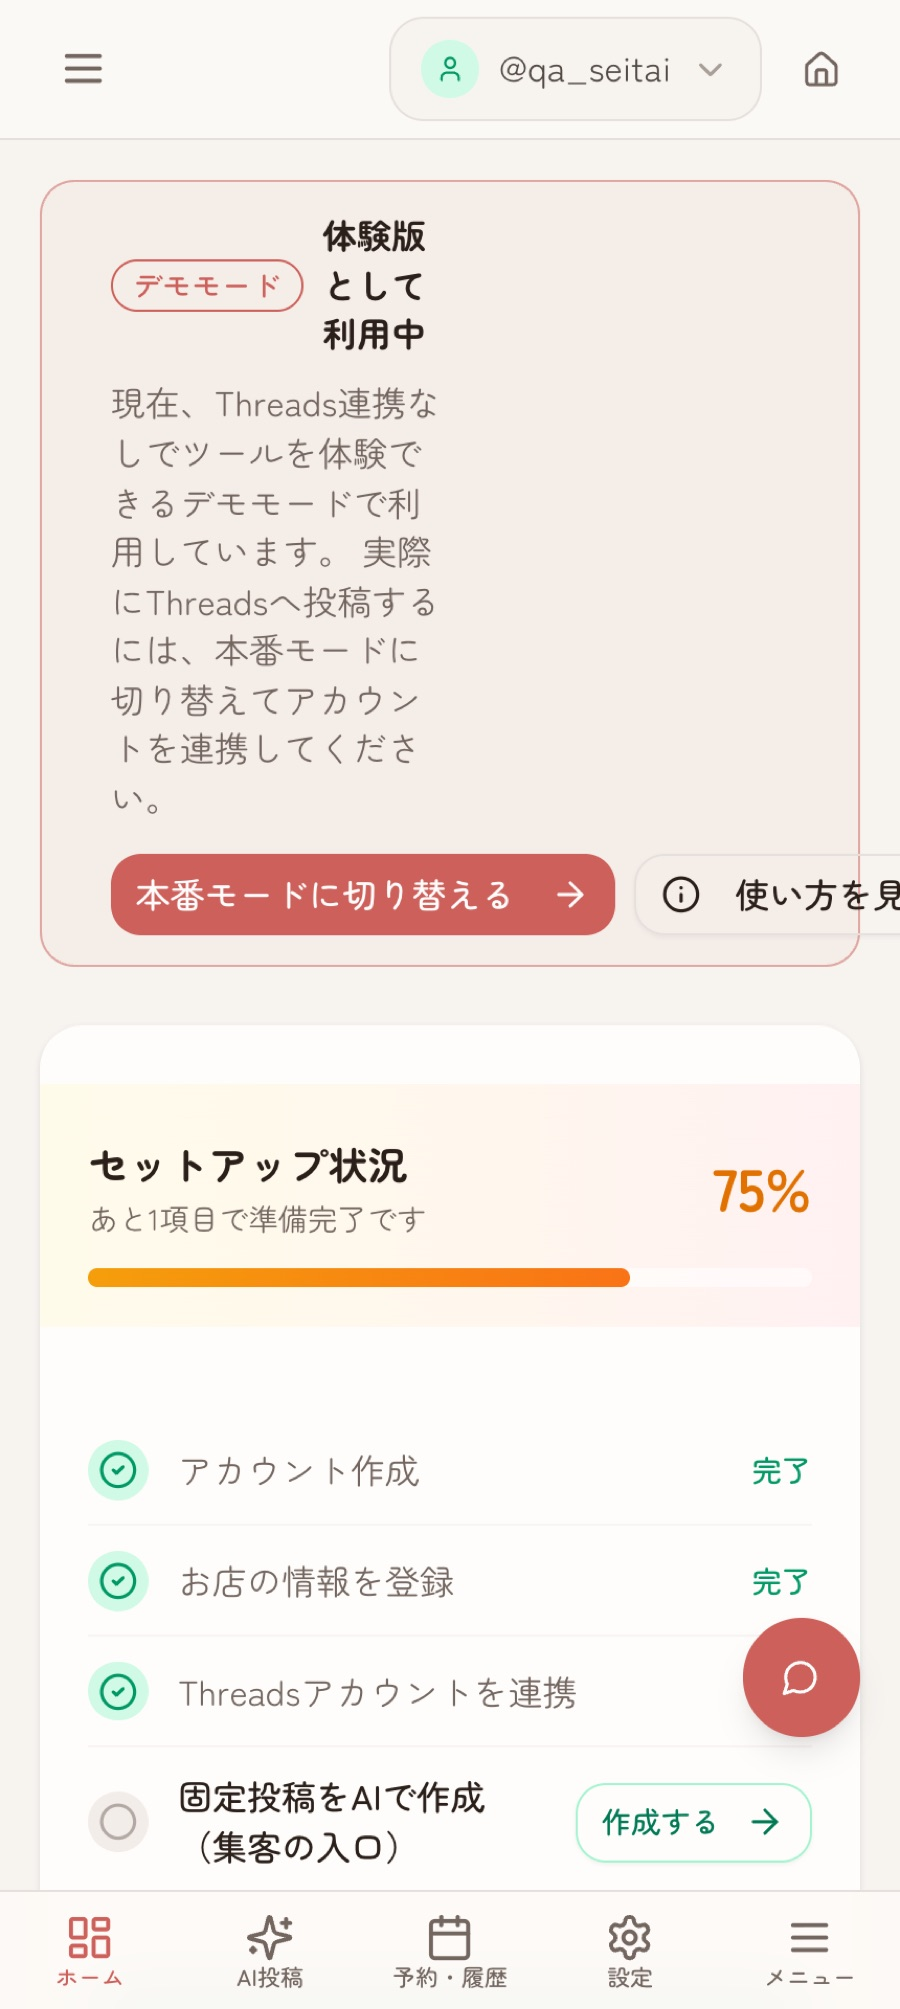
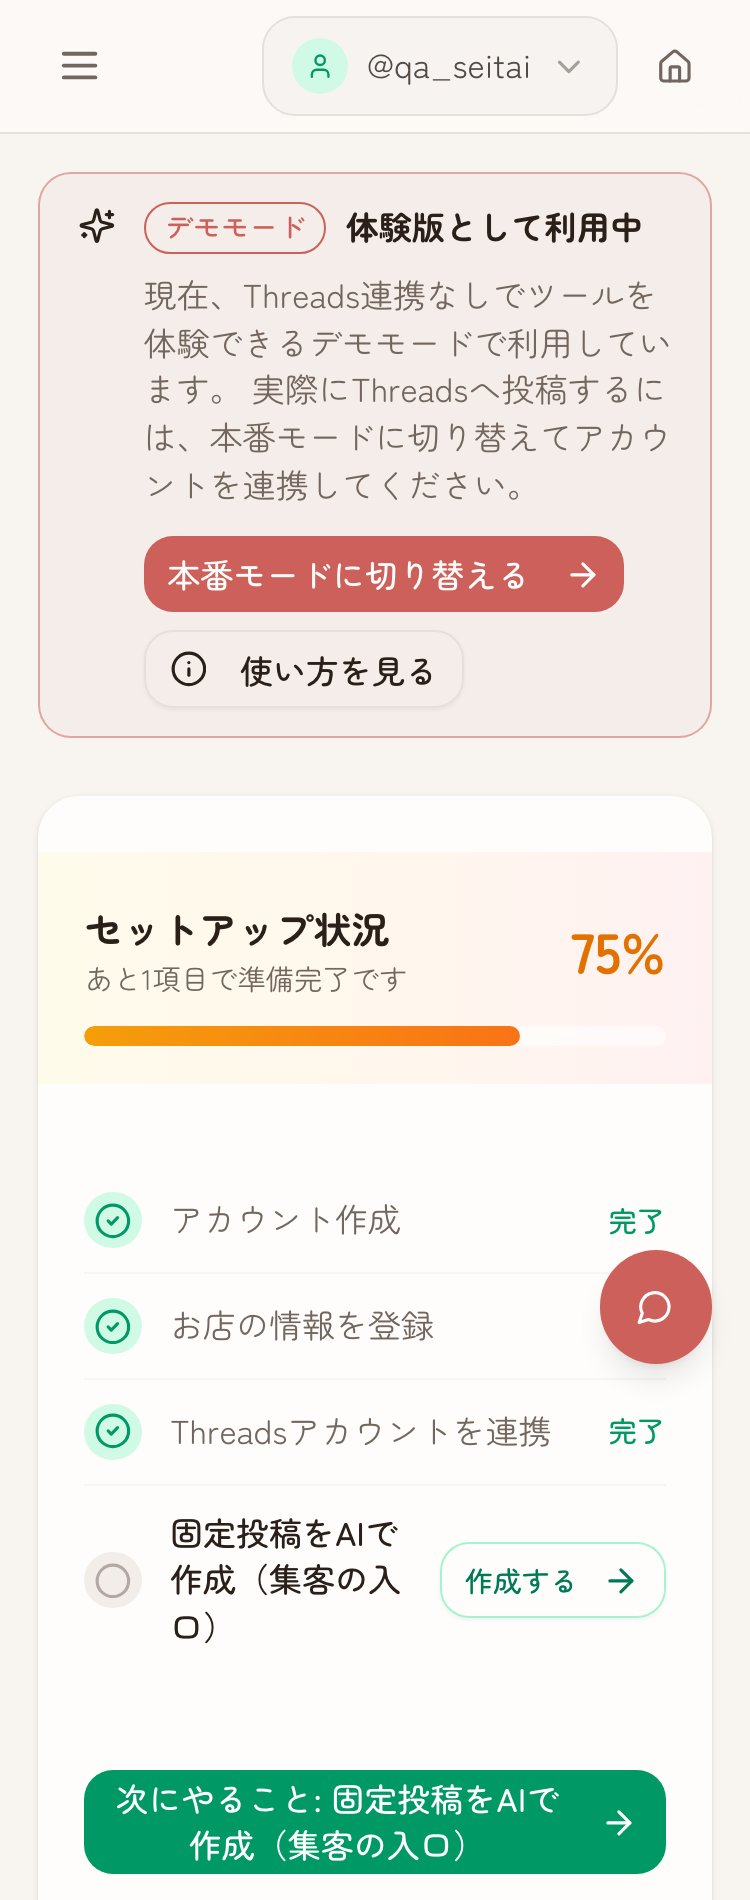
デモ欄: 紹介コード入りの登録画面を差し替え・デモモード帯の崩れを修正・LINEに届く投稿カードを追加
- 登録画面のスクショから紹介コード（SEMINAR2026）を外し、空欄の実画面で撮り直し
- DemoModeBanner: Alertのgrid 1列目（幅0）に本文を入れていたため、スマホ幅で1文字ずつ縦に折れていた
  → アイコンをAlert直下、本文を2列目（col-start-2）へ。375pxで正常表示を確認
- セットアップ状況の画面も修正後に撮り直し
- STEP5を「公式LINEに届く投稿カード」に変更。LINE公式Flexシミュレーターの描画（本番と同じbuildPostCardsの出力）を使用
- 各ステップに「実際の画面」の注記を追加。375px/1280pxではみ出しなし

diff --git a/client/src/components/DemoModeBanner.tsx b/client/src/components/DemoModeBanner.tsx
@@ -49,39 +49,41 @@ export function DemoModeBanner() {
 
   return (
     <>
+    {/* ★Alert は grid（1列目=アイコン用・幅0、2列目=本文）。
+        以前は本文を <div> で包んで1列目に入れていたため、スマホ幅で本文が
+        幅ゼロの列に押し込まれ、1文字ずつ縦に折れて表示されていた（2026-09-03 指摘）。
+        アイコンは Alert の直下に置き、本文は2列目（col-start-2）に置く。 */}
     <Alert className="border-primary/50 bg-primary/5 mb-6">
-      <div className="flex items-start gap-3">
-        <Sparkles className="w-5 h-5 text-primary mt-0.5" />
-        <div className="flex-1 min-w-0">
-          <div className="flex items-center gap-2 mb-2">
-            <Badge variant="outline" className="border-primary text-primary">
-              デモモード
-            </Badge>
-            <span className="text-sm font-semibold">体験版として利用中</span>
-          </div>
-          <AlertDescription className="text-sm text-muted-foreground mb-3">
-            現在、Threads連携なしでツールを体験できるデモモードで利用しています。
-            実際にThreadsへ投稿するには、本番モードに切り替えてアカウントを連携してください。
-          </AlertDescription>
-          {/* ★スマホ幅ではボタンが2つ並びきらず、右のボタンが画面外へ切れていた */}
-          <div className="flex flex-wrap gap-2">
-            <Button 
-              size="sm" 
-              onClick={handleExitDemo}
-              disabled={exitDemoModeMutation.isPending}
-            >
-              本番モードに切り替える
-              <ArrowRight className="w-4 h-4 ml-2" />
-            </Button>
-            <Button 
-              size="sm" 
-              variant="outline"
-              onClick={() => setLocation("/guide")}
-            >
-              <Info className="w-4 h-4 mr-2" />
-              使い方を見る
-            </Button>
-          </div>
+      <Sparkles className="text-primary" />
+      <div className="col-start-2 min-w-0">
+        <div className="flex flex-wrap items-center gap-2 mb-2">
+          <Badge variant="outline" className="border-primary text-primary">
+            デモモード
+          </Badge>
+          <span className="text-sm font-semibold">体験版として利用中</span>
+        </div>
+        <AlertDescription className="text-sm text-muted-foreground mb-3 block">
+          現在、Threads連携なしでツールを体験できるデモモードで利用しています。
+          実際にThreadsへ投稿するには、本番モードに切り替えてアカウントを連携してください。
+        </AlertDescription>
+        {/* ★スマホ幅ではボタンが2つ並びきらず、右のボタンが画面外へ切れていた */}
+        <div className="flex flex-wrap gap-2">
+          <Button 
+            size="sm" 
+            onClick={handleExitDemo}
+            disabled={exitDemoModeMutation.isPending}
+          >
+            本番モードに切り替える
+            <ArrowRight className="w-4 h-4 ml-2" />
+          </Button>
+          <Button 
+            size="sm" 
+            variant="outline"
+            onClick={() => setLocation("/guide")}
+          >
+            <Info className="w-4 h-4 mr-2" />
+            使い方を見る
+          </Button>
         </div>
       </div>
     </Alert>

diff --git a/client/src/pages/Landing.tsx b/client/src/pages/Landing.tsx
@@ -42,6 +42,7 @@ const demoSteps = [
     image: "/demo/register.jpg",
     alt: "Threads Studio の会員登録画面",
     portrait: true,
+    caption: "実際の登録画面です",
   },
   {
     step: 2,
@@ -51,6 +52,7 @@ const demoSteps = [
     image: "/demo/richmenu.jpg",
     alt: "公式LINEのメニュー（今日の投稿・コメント・設定・投稿の成績・固定投稿・お店とアカウント）",
     portrait: false,
+    caption: "公式LINEのトーク下部に出る実際のメニューです",
   },
   {
     step: 3,
@@ -60,6 +62,7 @@ const demoSteps = [
     image: "/demo/counseling-sp.jpg",
     alt: "はじめの設定（20問）の画面",
     portrait: true,
+    caption: "実際の画面です（サンプル店舗のデータ）",
   },
   {
     step: 4,
@@ -69,15 +72,17 @@ const demoSteps = [
     image: "/demo/dashboard-sp.jpg",
     alt: "セットアップ状況の画面（アカウント作成・お店の情報・Threads連携・固定投稿）",
     portrait: true,
+    caption: "実際の画面です（サンプル店舗のデータ）",
   },
   {
     step: 5,
-    title: "毎日、投稿が届く。押すだけ",
+    title: "毎日、LINEに投稿が届く。押すだけ",
     time: "毎日1タップ",
-    description: "実測で反応が高い15時・21時・22時に合わせて、AIが投稿を用意します。LINEに届いた投稿を見て「これで投稿する」を押すだけ。複数あるときは「すべて承認する」で一度に終わります。慣れたら確認なしの完全自動にもできます。",
-    image: "/demo/posts.jpg",
-    alt: "投稿の確認・予定の画面（承認して投稿）",
+    description: "実測で反応が高い15時・21時・22時に合わせて、AIが投稿を用意します。公式LINEに届いたカードを見て「これで投稿する」を押すだけ。気に入らなければ「書き直す」「見送る」もその場で。慣れたら確認なしの完全自動にもできます。",
+    image: "/demo/line-card.jpg",
+    alt: "公式LINEに届く投稿カード（これで投稿する・書き直す・見送る）",
     portrait: false,
+    caption: "公式LINEに実際に届くカードです（LINE公式の表示で描画・サンプル店舗の投稿）",
   },
 ];
 
@@ -193,7 +198,7 @@ function VideoDemoSection() {
                       className={`w-full h-auto block ${stepData.portrait ? "max-h-[520px] object-cover object-top" : ""}`}
                     />
                   </div>
-                  <p className="text-[11px] text-muted-foreground text-center mt-2">実際の画面です（サンプル店舗のデータ）</p>
+                  <p className="text-[11px] text-muted-foreground text-center mt-2">{stepData.caption}</p>
                 </div>
               </div>
             </div>
